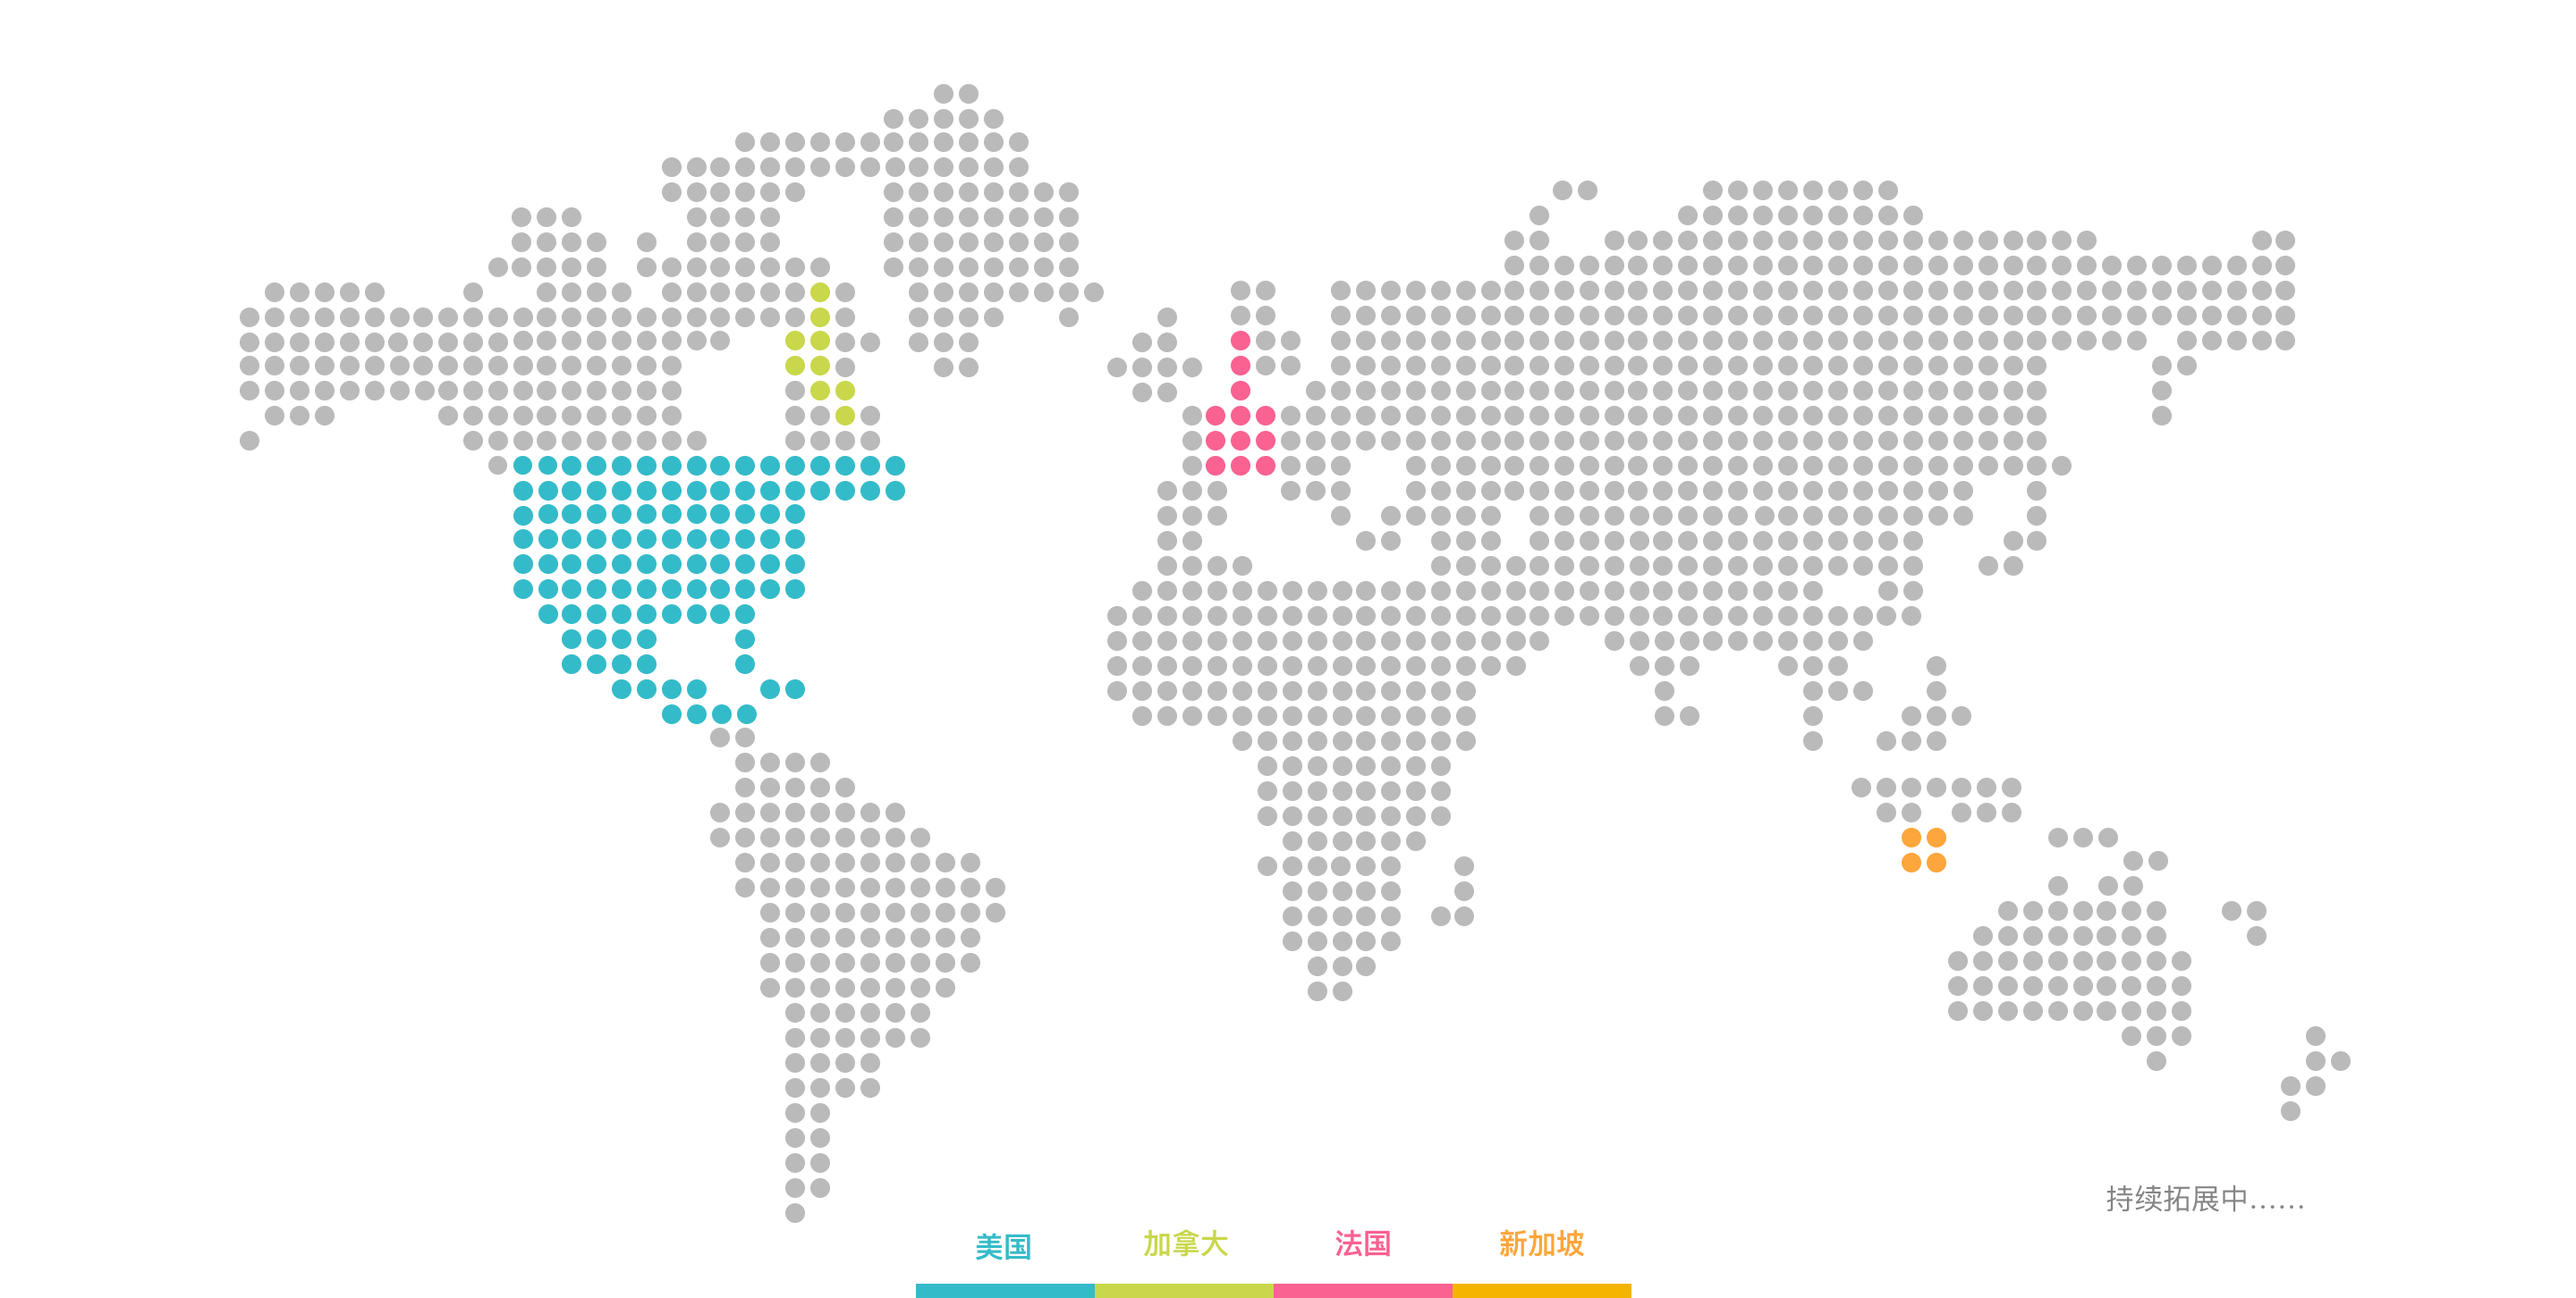
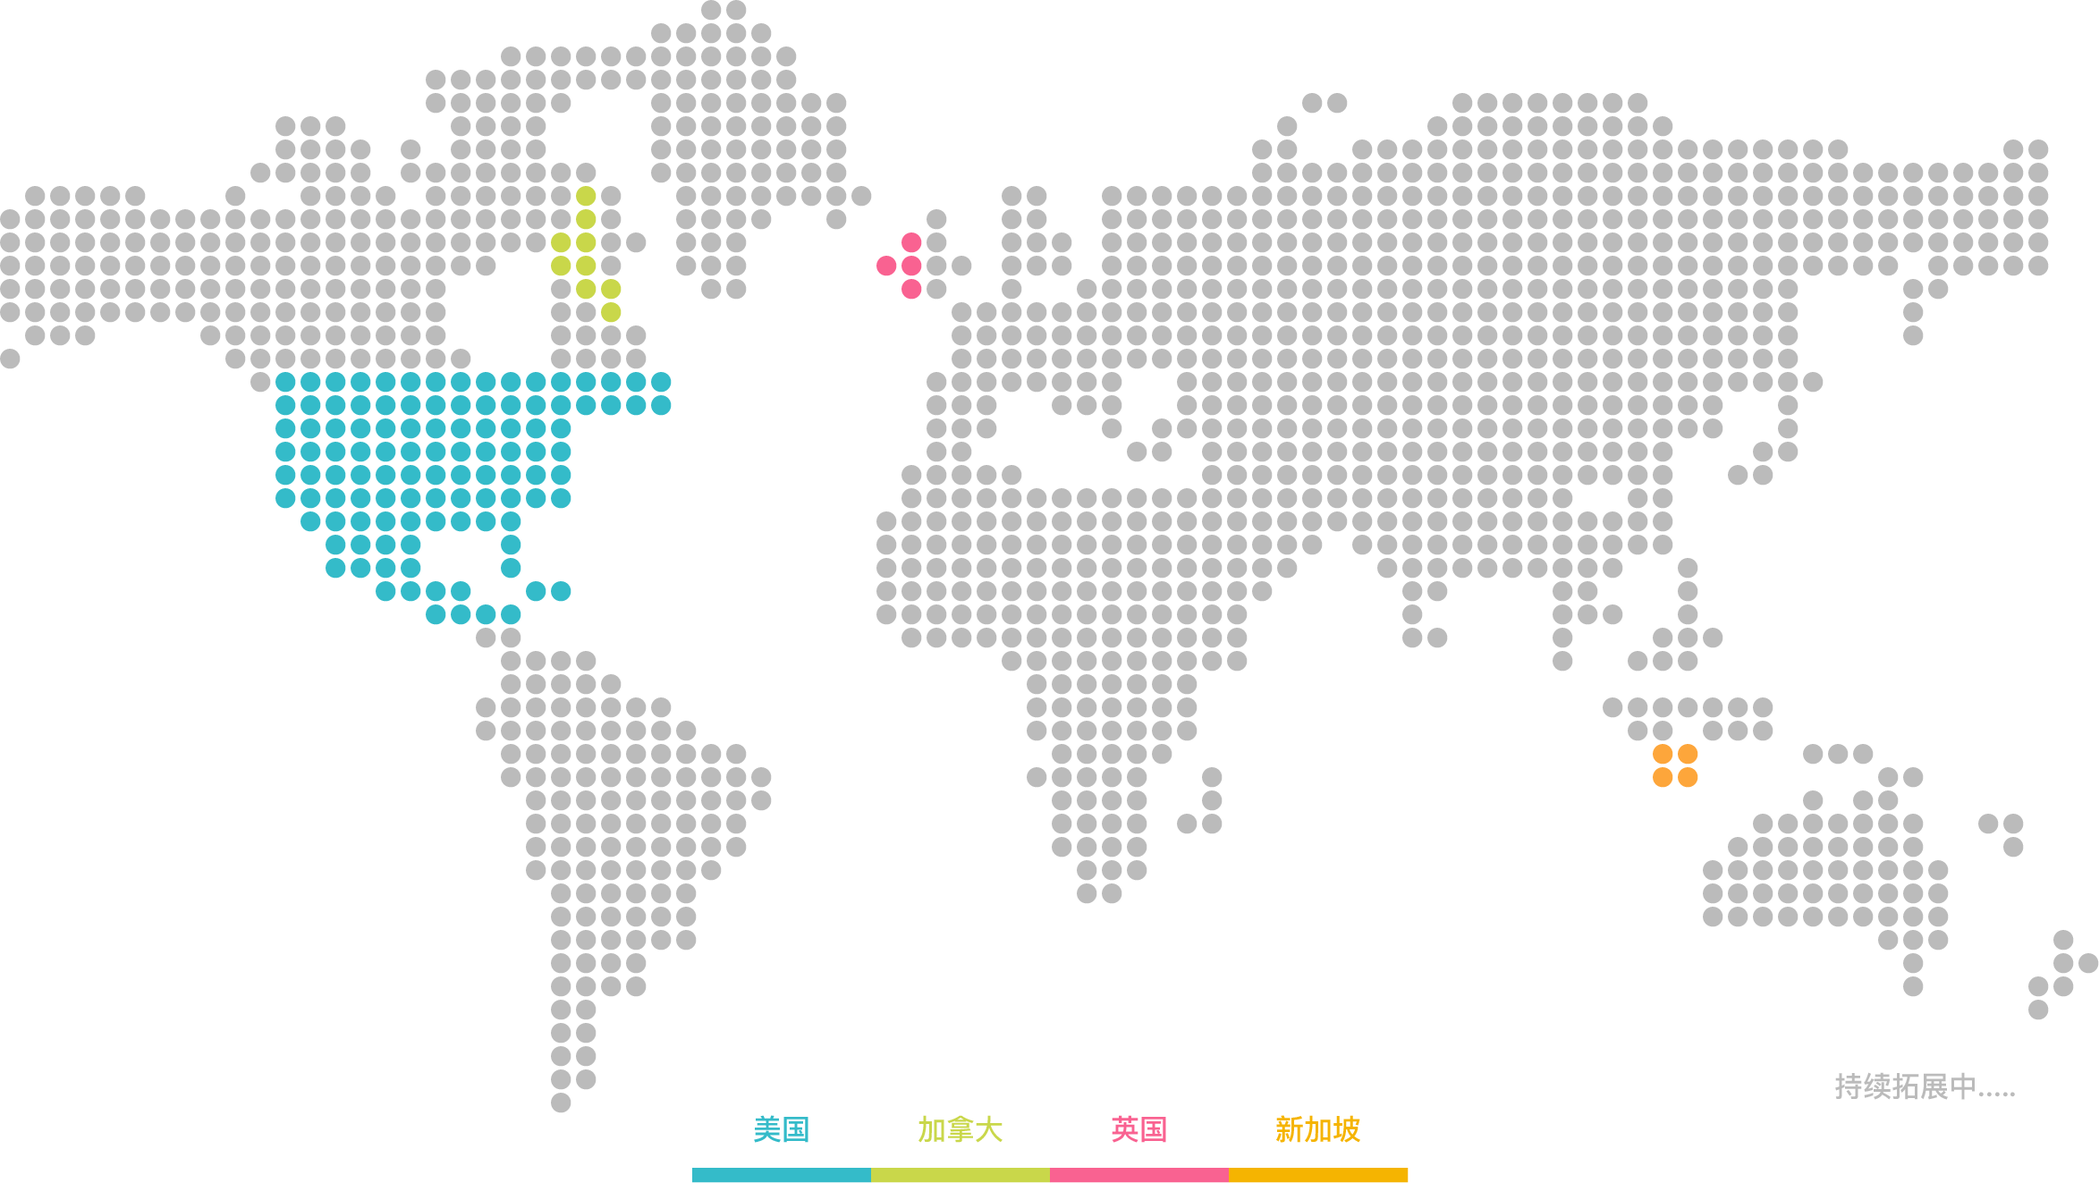
Change volunteer map

diff --git a/tabs/about/Culture.vue b/tabs/about/Culture.vue
@@ -19,50 +19,59 @@
         <section>
             <h2>{{ $t('about.culture.distributionTitle') }}</h2>
             <div class="distribution-image desktop">
-                <img src="../../assets/about/culture/map.png" />
+                <img :src="map[$i18n.locale]" />
                 <div class="tips" data-aos="fade-up">
                     <div class="tips-text">
-                        <p>{{ $t('about.culture.schoool1') }}</p>
-                        <p>{{ $t('about.culture.schoool2') }}</p>
+                        <p
+                            v-for="school in $t('about.culture.canada')"
+                            :key="school"
+                        >
+                            {{ school }}
+                        </p>
                     </div>
                     <div class="tips-line" />
                 </div>
                 <div class="tips" data-aos="fade-up">
                     <div class="tips-text">
-                        <p>{{ $t('about.culture.schoool3') }}</p>
+                        <p
+                            v-for="school in $t('about.culture.uk')"
+                            :key="school"
+                        >
+                            {{ school }}
+                        </p>
                     </div>
                     <div class="tips-line" />
                 </div>
                 <div class="tips" data-aos="fade-left">
                     <div class="tips-text">
-                        <p>{{ $t('about.culture.schoool4') }}</p>
-                        <p>{{ $t('about.culture.schoool5') }}</p>
-                        <p>{{ $t('about.culture.schoool6') }}</p>
-                        <p>{{ $t('about.culture.schoool7') }}</p>
-                        <p>{{ $t('about.culture.schoool8') }}</p>
-                        <p>{{ $t('about.culture.schoool9') }}</p>
-                        <p>{{ $t('about.culture.schoool10') }}</p>
-                        <p>{{ $t('about.culture.schoool11') }}</p>
+                        <p
+                            v-for="school in $t('about.culture.us-west')"
+                            :key="school"
+                        >
+                            {{ school }}
+                        </p>
                     </div>
                     <div class="tips-line" />
                 </div>
                 <div class="tips" data-aos="fade-right">
                     <div class="tips-text">
-                        <p>{{ $t('about.culture.schoool12') }}</p>
-                        <p>{{ $t('about.culture.schoool13') }}</p>
-                        <p>{{ $t('about.culture.schoool14') }}</p>
-                        <p>{{ $t('about.culture.schoool15') }}</p>
-                        <p>{{ $t('about.culture.schoool16') }}</p>
-                        <p>{{ $t('about.culture.schoool17') }}</p>
-                        <p>{{ $t('about.culture.schoool18') }}</p>
-                        <p>{{ $t('about.culture.schoool19') }}</p>
-                        <p>{{ $t('about.culture.schoool20') }}</p>
+                        <p
+                            v-for="school in $t('about.culture.us-east')"
+                            :key="school"
+                        >
+                            {{ school }}
+                        </p>
                     </div>
                     <div class="tips-line" />
                 </div>
                 <div class="tips" data-aos="fade-down">
                     <div class="tips-text">
-                        <p>{{ $t('about.culture.schoool21') }}</p>
+                        <p
+                            v-for="school in $t('about.culture.singapore')"
+                            :key="school"
+                        >
+                            {{ school }}
+                        </p>
                     </div>
                     <div class="tips-line" />
                 </div>
@@ -85,11 +94,21 @@
 
 <script>
 import Button from '@/components/Button.vue';
+import mapImage from '@/assets/about/culture/map.png';
+import mapEnImage from '@/assets/about/culture/map-en.png';
 
 export default {
     name: 'Culture',
     components: {
         Button,
+    },
+    data() {
+        return {
+            map: {
+                zh: mapImage,
+                en: mapEnImage,
+            },
+        };
     },
 };
 </script>
@@ -149,11 +168,11 @@ export default {
 }
 
 .tips:nth-of-type(1) {
-    top: -43px;
-    left: 317px;
+    top: -75px;
+    left: 251px;
 
     .tips-text {
-        width: 116px;
+        width: 144px;
         height: 70px;
         border: 2px solid $green;
         color: $green;
@@ -163,13 +182,13 @@ export default {
         width: 2px;
         height: 110px;
         background: $green;
-        left: 58px;
+        left: 77px;
     }
 }
 
 .tips:nth-of-type(2) {
-    top: 0px;
-    left: 495px;
+    top: -20px;
+    left: 439px;
 
     .tips-text {
         width: 144px;
@@ -187,8 +206,8 @@ export default {
 }
 
 .tips:nth-of-type(3) {
-    top: 218px;
-    left: 32px;
+    top: 225px;
+    left: -45px;
 
     .tips-text {
         width: 171px;
@@ -207,8 +226,8 @@ export default {
 }
 
 .tips:nth-of-type(4) {
-    top: 241px;
-    left: 397px;
+    top: 238px;
+    left: 347px;
 
     .tips-text {
         width: 183px;
@@ -227,8 +246,8 @@ export default {
 }
 
 .tips:nth-of-type(5) {
-    top: 494px;
-    left: 827px;
+    top: 534px;
+    left: 875px;
 
     .tips-text {
         width: 121px;
@@ -261,8 +280,8 @@ export default {
     }
 
     .tips:nth-of-type(1) {
-        top: -50px;
-        left: 184px;
+        top: -65px;
+        left: 155px;
 
         .tips-line {
             height: 64px;
@@ -270,8 +289,8 @@ export default {
     }
 
     .tips:nth-of-type(2) {
-        top: 32px;
-        left: 295px;
+        top: 22px;
+        left: 259px;
 
         .tips-line {
             height: 25px;
@@ -279,8 +298,8 @@ export default {
     }
 
     .tips:nth-of-type(3) {
-        top: 146px;
-        left: -48px;
+        top: 136px;
+        left: -100px;
 
         .tips-line {
             left: 170px;
@@ -288,8 +307,8 @@ export default {
     }
 
     .tips:nth-of-type(4) {
-        top: 146px;
-        left: 267px;
+        top: 144px;
+        left: 235px;
 
         .tips-text {
             height: 215px;
@@ -297,8 +316,8 @@ export default {
     }
 
     .tips:nth-of-type(5) {
-        top: 294px;
-        left: 507px;
+        top: 318px;
+        left: 546px;
 
         .tips-line {
             height: 38px;
